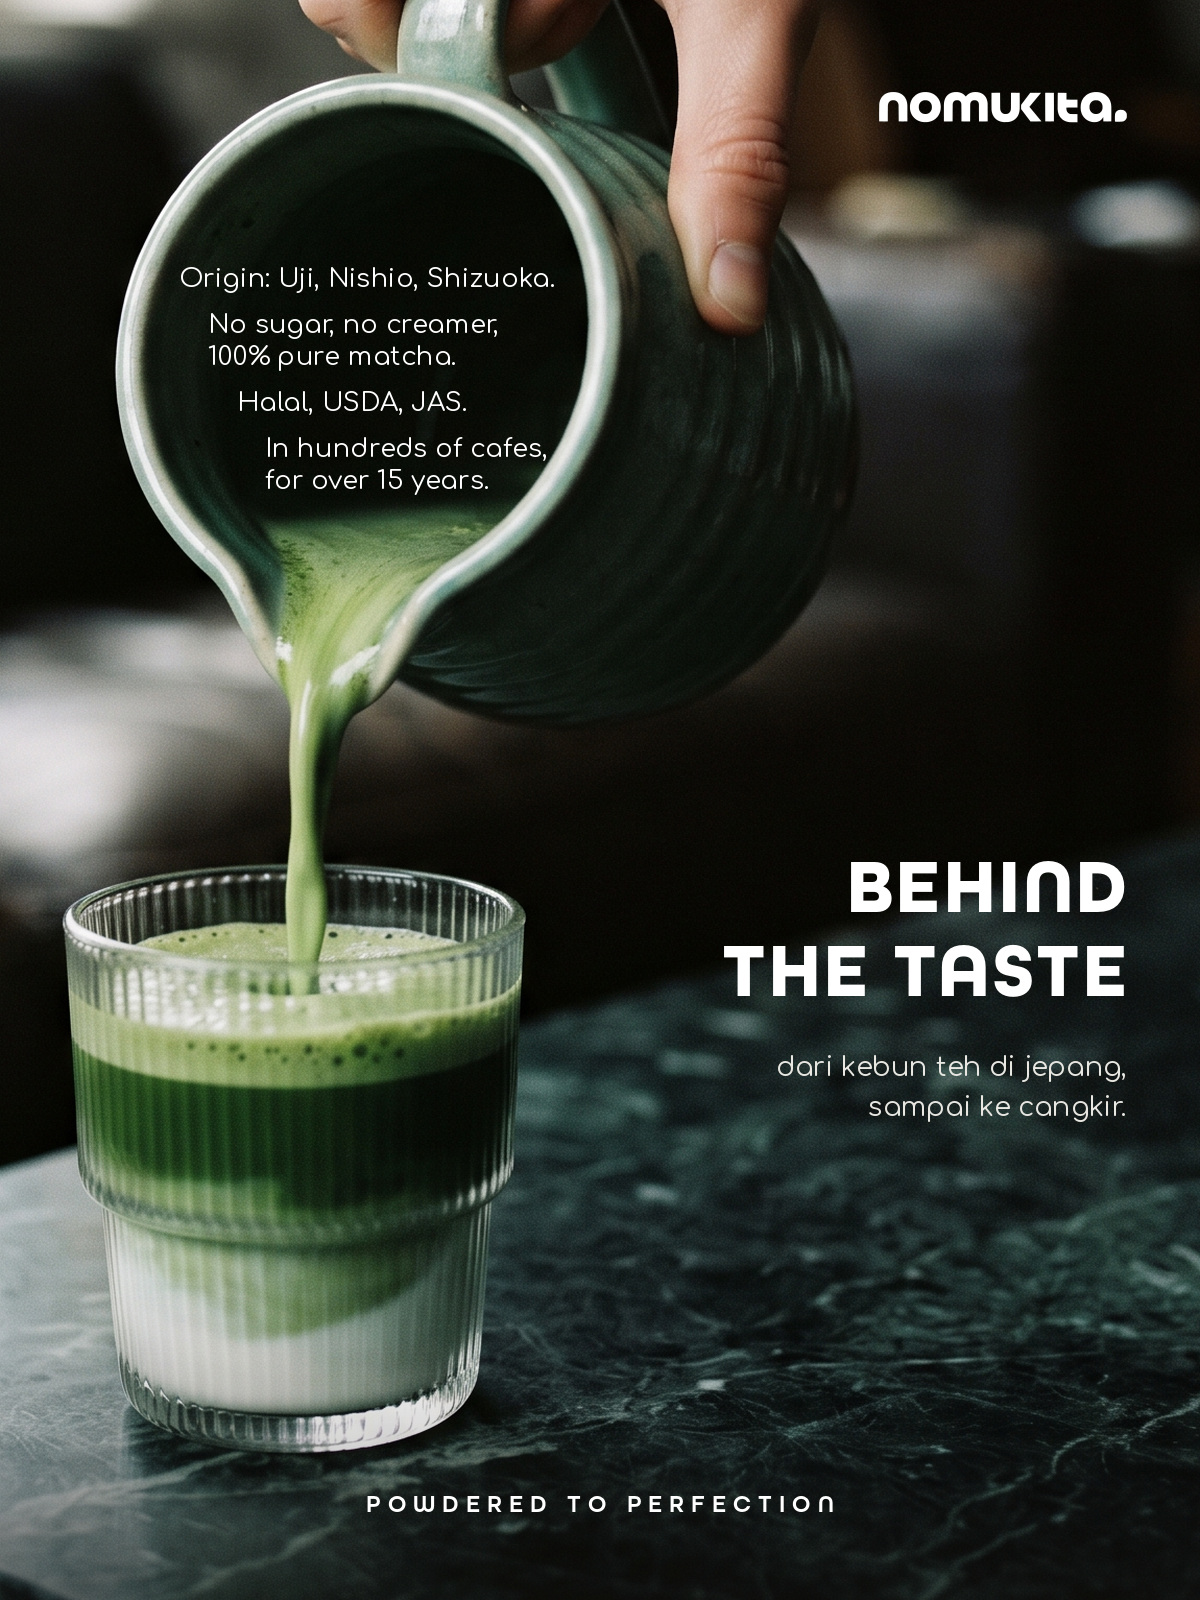
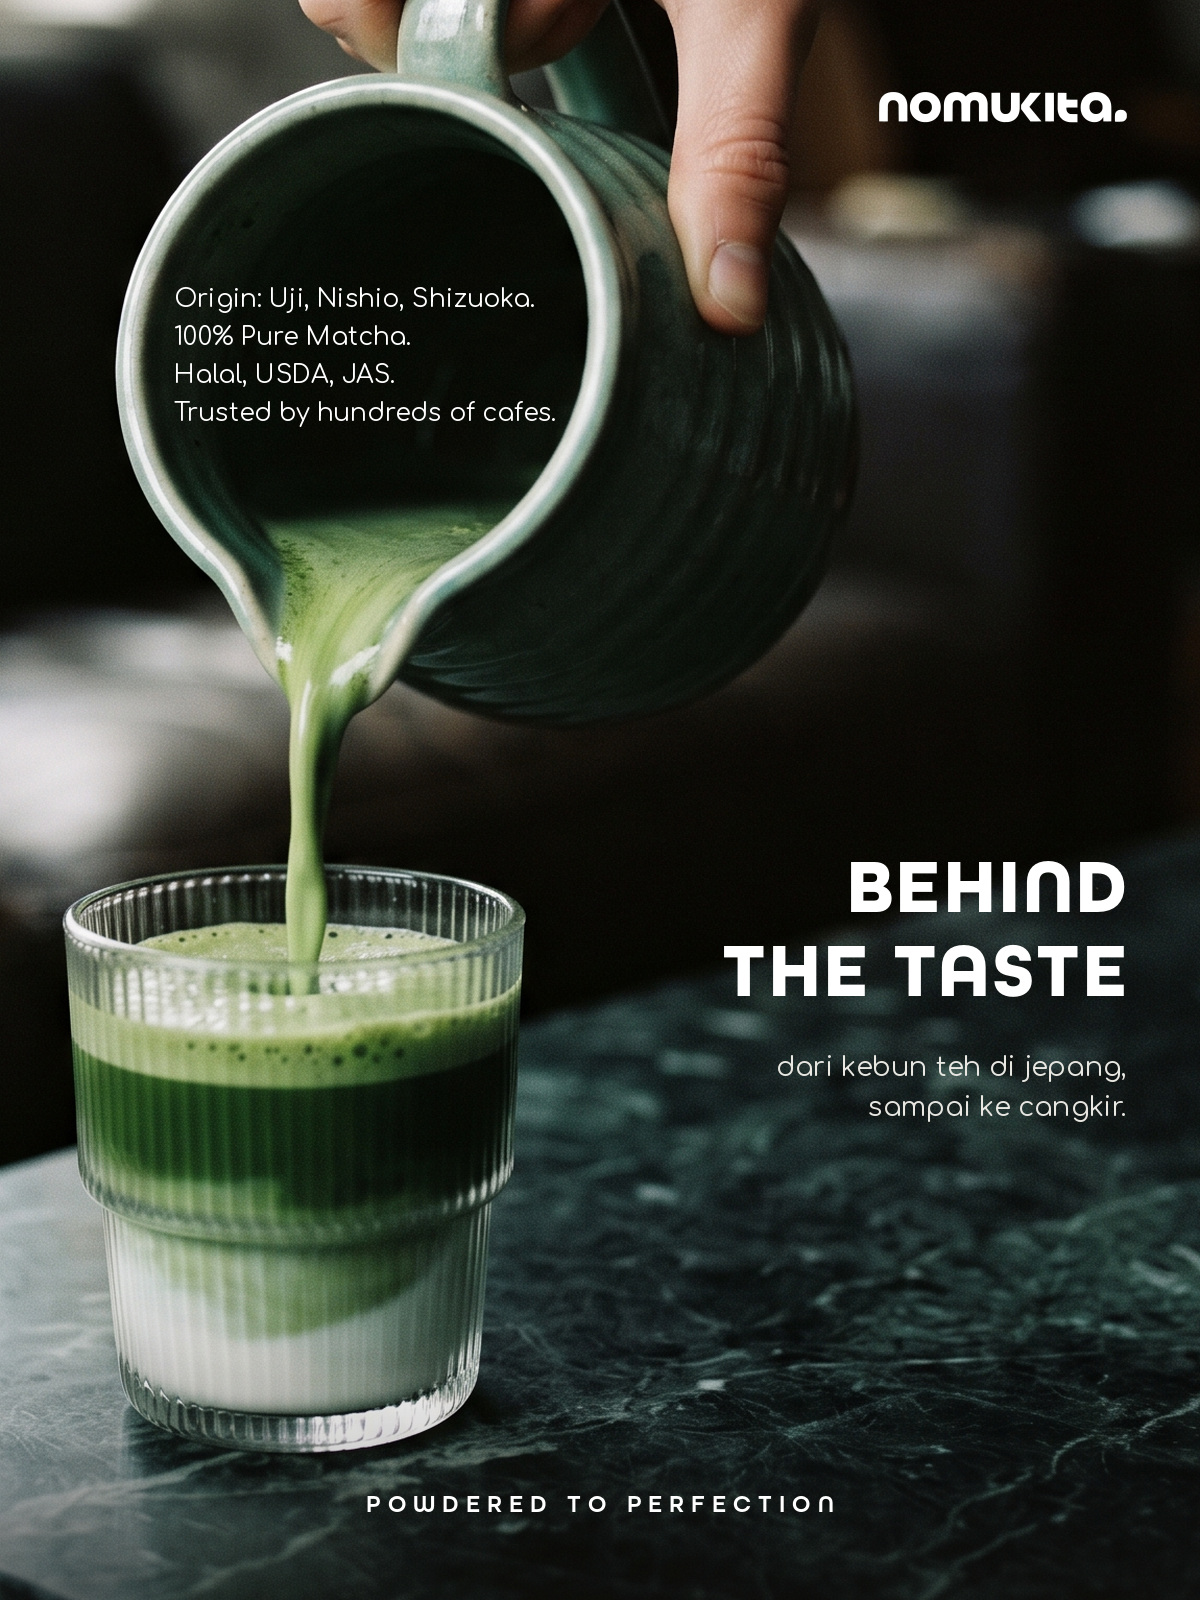
Shorten the brand story 2 claims and set them flush left
Back to four single lines at the client's wording. The stepped cascade does not
survive the change: "Origin: Uji, Nishio, Shizuoka." and "Trusted by hundreds of
cafes." run 361 and 383 pixels against a mouth 447 across at its widest, leaving
10 pixels of lateral freedom for the whole block where a rightward step needs
about 120. Every ordering of the four was tried, including ones that put the long
lines in the widest rows; the best yields 6 pixels a line, which reads as a ragged
edge, not a cascade. A clean flush edge is the better of the two, and the step
returns as soon as a line drops under roughly 300 pixels.

Ground under all four lines measures 30 to 31 against a limit of 120.

Claude-Session: https://claude.ai/code/session_01LqXMhsXVUSTDGQKyLmseEg

Changed region(s): [[0.1542, 0.1562, 0.4625, 0.3125]]

diff --git a/banners/brandstory.py b/banners/brandstory.py
@@ -120,22 +120,18 @@ def proof():
     N.body(d, (right, 1052), ['dari kebun teh di jepang,', 'sampai ke cangkir.'],
            27, (232, 231, 226), leading=1.48, align='right')
 
-    # Two of these four claims are too long for the mouth on one line — "No
-    # sugar, no creamer, 100% pure matcha" alone runs 542 pixels against an
-    # interior of 447 — so the copy is set as four units rather than four lines,
-    # and the step moves per unit. Wrapped lines share their unit's indent, which
-    # is what keeps six lines reading as four claims. The certificates are named
-    # rather than badged: two seals on the marble would undo the clean layout.
-    units = [
-        (179, ['Origin: Uji, Nishio, Shizuoka.']),
-        (208, ['No sugar, no creamer,', '100% pure matcha.']),
-        (237, ['Halal, USDA, JAS.']),
-        (265, ['In hundreds of cafes,', 'for over 15 years.']),
-    ]
-    y = 264
-    for x, lines in units:
-        N.body(d, (x, y), lines, 26, WHITE, leading=32 / 26)
-        y += len(lines) * 32 + 14          # the extra 14 keeps pairs paired
+    # Set flush left rather than stepped, which is a change forced by the copy.
+    # Two of these lines run 361 and 383 pixels against a mouth whose widest row
+    # is 447, so once the rim padding is taken off there are 10 pixels of lateral
+    # freedom for the whole block — a rightward step needs roughly 120. Every
+    # ordering was tried; the best any of them yields is 6 pixels a line, which
+    # reads as a ragged edge rather than a cascade, so a clean flush edge is the
+    # better of the two. The step comes back the moment a line drops under about
+    # 300 pixels, near 21 characters at this size.
+    lines = ['Origin: Uji, Nishio, Shizuoka.', '100% Pure Matcha.',
+             'Halal, USDA, JAS.', 'Trusted by hundreds of cafes.']
+    for i, line in enumerate(lines):
+        N.body(d, (174, 284 + i * 38), [line], 25, WHITE)
 
     N.text(d, (W / 2, 1512), 'POWDERED TO PERFECTION', 24, WHITE, demi=True,
            tracking=7, align='center')
